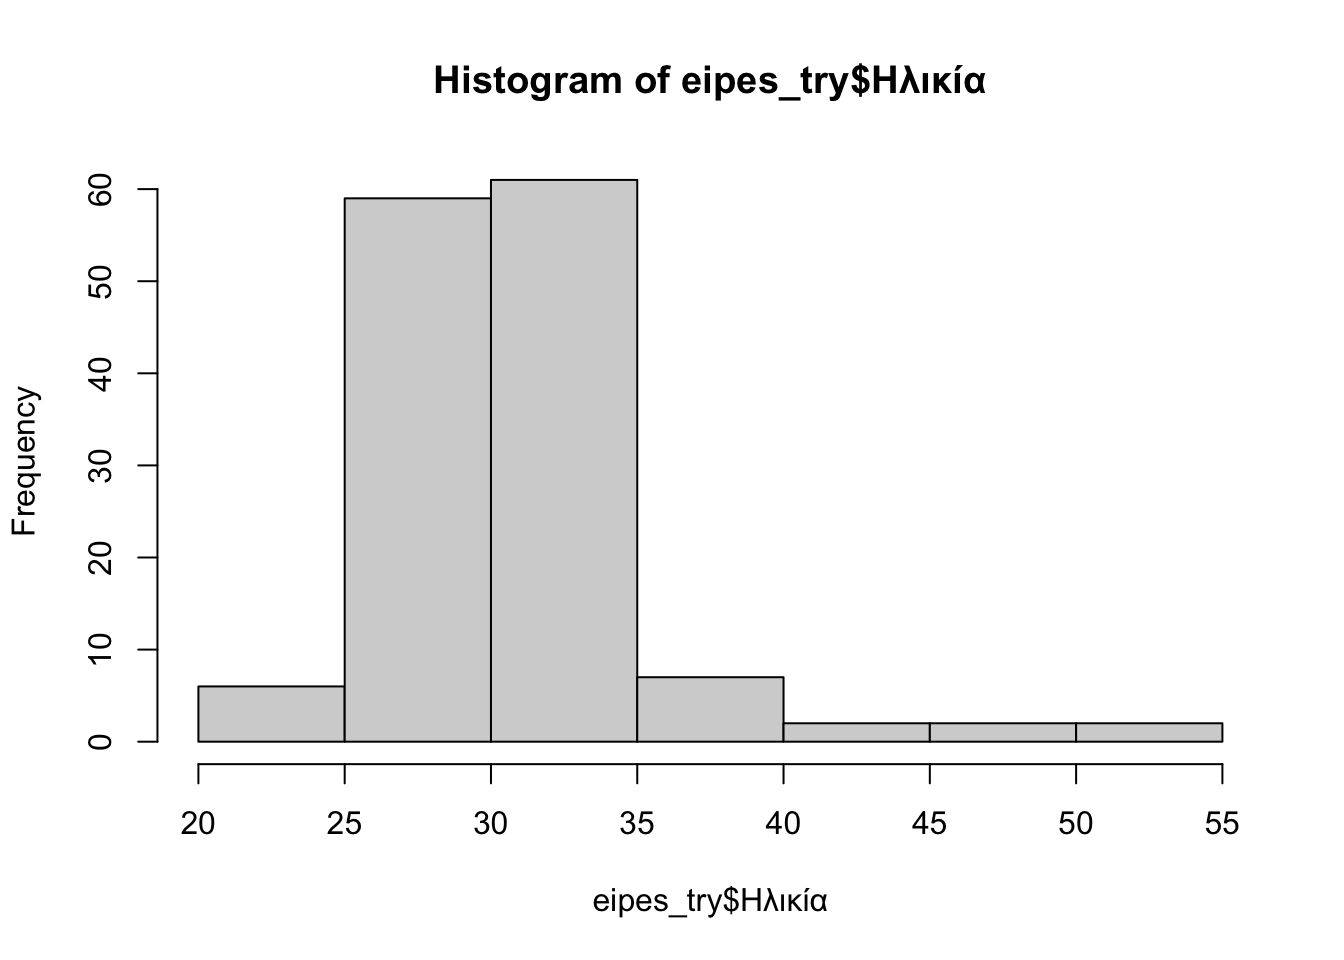
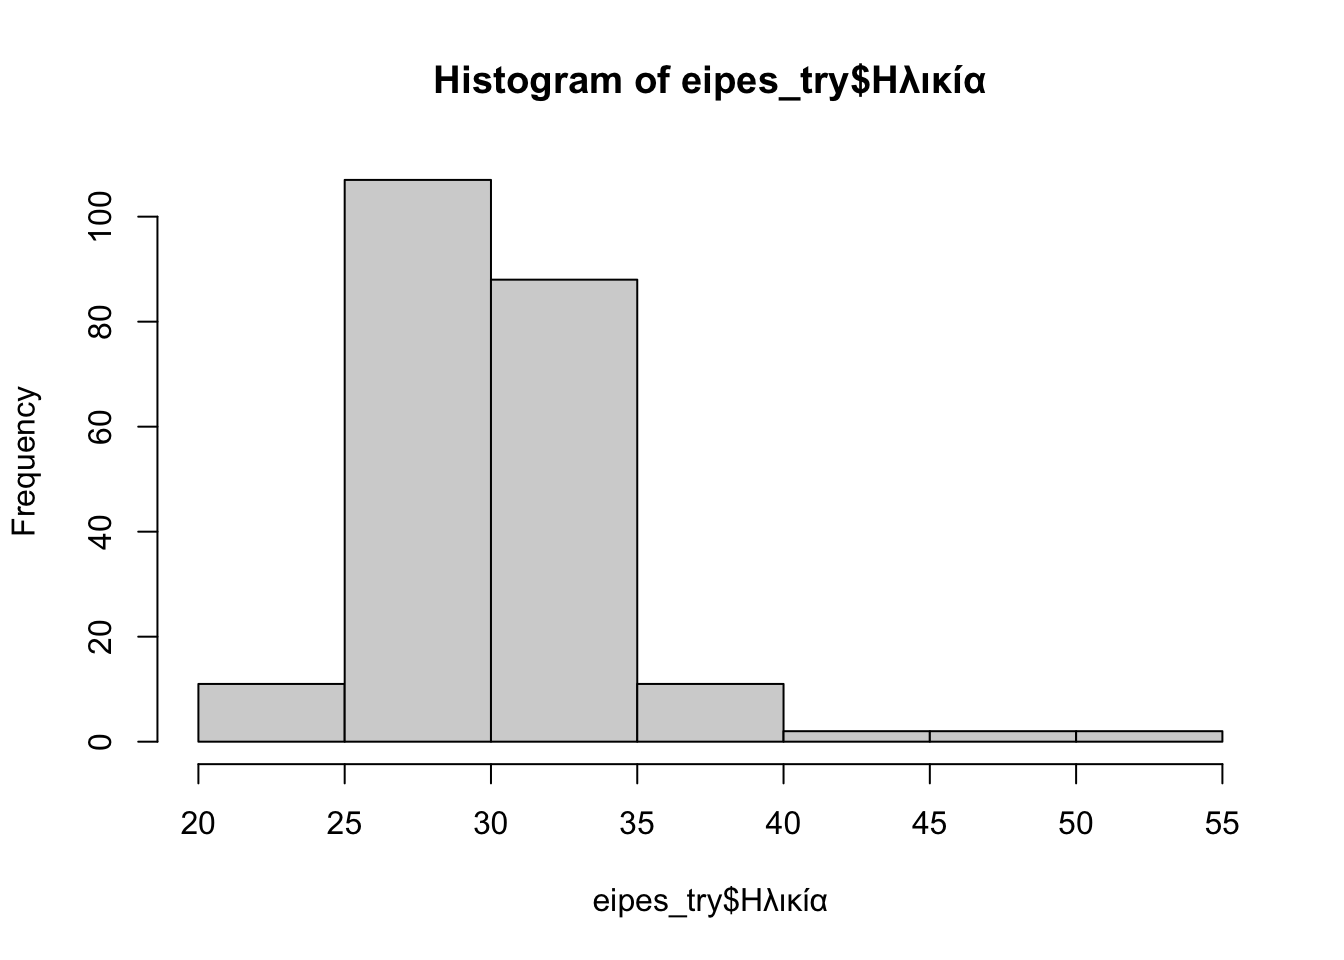
some changes

diff --git a/EIPES_test_session.html b/EIPES_test_session.html
@@ -102,7 +102,7 @@ pre > code.sourceCode > span > a:first-child::before { text-decoration: underlin
 <div class="cell">
 <div class="sourceCode cell-code" id="cb1"><pre class="sourceCode r code-with-copy"><code class="sourceCode r"><span id="cb1-1"><a href="#cb1-1" aria-hidden="true" tabindex="-1"></a><span class="fu">library</span>(tidyverse)</span>
 <span id="cb1-2"><a href="#cb1-2" aria-hidden="true" tabindex="-1"></a><span class="fu">library</span>(readxl)</span>
-<span id="cb1-3"><a href="#cb1-3" aria-hidden="true" tabindex="-1"></a>eipes_try <span class="ot">&lt;-</span> <span class="fu">read_excel</span>(<span class="st">"~/Downloads/ΕΡΕΥΝΑ ΓΙΑ ΤΗΝ ΙΑΤΡΙΚΗ ΠΑΙΔΕΙΑ ΚΑΙ ΕΡΓΑΣΙΑ (ΕΙΠΕς) (Απαντήσεις).xlsx"</span>)</span>
+<span id="cb1-3"><a href="#cb1-3" aria-hidden="true" tabindex="-1"></a>eipes_try <span class="ot">&lt;-</span> <span class="fu">read_excel</span>(<span class="st">"~/Downloads/ΕΡΕΥΝΑ ΓΙΑ ΤΗΝ ΙΑΤΡΙΚΗ ΠΑΙΔΕΙΑ ΚΑΙ ΕΡΓΑΣΙΑ (ΕΙΠΕς) (Απαντήσεις) (6).xlsx"</span>)</span>
 <span id="cb1-4"><a href="#cb1-4" aria-hidden="true" tabindex="-1"></a></span>
 <span id="cb1-5"><a href="#cb1-5" aria-hidden="true" tabindex="-1"></a>eipes_try <span class="ot">&lt;-</span> eipes_try[<span class="sc">!</span><span class="fu">is.na</span>(eipes_try<span class="sc">$</span><span class="st">`</span><span class="at">Χρονική σήμανση</span><span class="st">`</span>),]</span></code><button title="Copy to Clipboard" class="code-copy-button"><i class="bi"></i></button></pre></div>
 </div>
@@ -110,7 +110,7 @@ pre > code.sourceCode > span > a:first-child::before { text-decoration: underlin
 <div class="sourceCode cell-code" id="cb2"><pre class="sourceCode r code-with-copy"><code class="sourceCode r"><span id="cb2-1"><a href="#cb2-1" aria-hidden="true" tabindex="-1"></a><span class="co"># data collected so far.</span></span>
 <span id="cb2-2"><a href="#cb2-2" aria-hidden="true" tabindex="-1"></a><span class="fu">dim</span>(eipes_try)</span></code><button title="Copy to Clipboard" class="code-copy-button"><i class="bi"></i></button></pre></div>
 <div class="cell-output cell-output-stdout">
-<pre><code>[1] 139  57</code></pre>
+<pre><code>[1] 223  57</code></pre>
 </div>
 </div>
 <p>Gender composition</p>
@@ -120,14 +120,14 @@ pre > code.sourceCode > span > a:first-child::before { text-decoration: underlin
 <div class="cell-output cell-output-stdout">
 <pre><code>
 Non binary   Αρσενικό     Θηλυκό 
-         1         43         95 </code></pre>
+         1         83        139 </code></pre>
 </div>
 <div class="sourceCode cell-code" id="cb6"><pre class="sourceCode r code-with-copy"><code class="sourceCode r"><span id="cb6-1"><a href="#cb6-1" aria-hidden="true" tabindex="-1"></a><span class="co"># Percentage</span></span>
 <span id="cb6-2"><a href="#cb6-2" aria-hidden="true" tabindex="-1"></a><span class="fu">prop.table</span>(<span class="fu">table</span>(eipes_try<span class="sc">$</span><span class="st">`</span><span class="at">Φύλο?</span><span class="st">`</span>))</span></code><button title="Copy to Clipboard" class="code-copy-button"><i class="bi"></i></button></pre></div>
 <div class="cell-output cell-output-stdout">
 <pre><code>
  Non binary    Αρσενικό      Θηλυκό 
-0.007194245 0.309352518 0.683453237 </code></pre>
+0.004484305 0.372197309 0.623318386 </code></pre>
 </div>
 </div>
 <p>Age composition</p>
@@ -135,7 +135,7 @@ Non binary   Αρσενικό     Θηλυκό
 <div class="sourceCode cell-code" id="cb8"><pre class="sourceCode r code-with-copy"><code class="sourceCode r"><span id="cb8-1"><a href="#cb8-1" aria-hidden="true" tabindex="-1"></a><span class="co"># Mean Age</span></span>
 <span id="cb8-2"><a href="#cb8-2" aria-hidden="true" tabindex="-1"></a><span class="fu">mean</span>(eipes_try<span class="sc">$</span>Ηλικία)</span></code><button title="Copy to Clipboard" class="code-copy-button"><i class="bi"></i></button></pre></div>
 <div class="cell-output cell-output-stdout">
-<pre><code>[1] 31.22302</code></pre>
+<pre><code>[1] 30.7713</code></pre>
 </div>
 <div class="sourceCode cell-code" id="cb10"><pre class="sourceCode r code-with-copy"><code class="sourceCode r"><span id="cb10-1"><a href="#cb10-1" aria-hidden="true" tabindex="-1"></a><span class="co"># Age Histogram</span></span>
 <span id="cb10-2"><a href="#cb10-2" aria-hidden="true" tabindex="-1"></a><span class="fu">hist</span>(eipes_try<span class="sc">$</span>Ηλικία)</span></code><button title="Copy to Clipboard" class="code-copy-button"><i class="bi"></i></button></pre></div>
@@ -154,13 +154,13 @@ Non binary   Αρσενικό     Θηλυκό
 <div class="cell-output cell-output-stdout">
 <pre><code>
            Ειδικευόμενος/η Προπτυχιακός Φοιτητής/τρια 
-                       131                          8 </code></pre>
+                       211                         12 </code></pre>
 </div>
 <div class="sourceCode cell-code" id="cb13"><pre class="sourceCode r code-with-copy"><code class="sourceCode r"><span id="cb13-1"><a href="#cb13-1" aria-hidden="true" tabindex="-1"></a><span class="fu">prop.table</span>(<span class="fu">table</span>(eipes_try<span class="sc">$</span><span class="st">`</span><span class="at">Σε τι κατηγορία ανήκετε ;</span><span class="st">`</span>))</span></code><button title="Copy to Clipboard" class="code-copy-button"><i class="bi"></i></button></pre></div>
 <div class="cell-output cell-output-stdout">
 <pre><code>
            Ειδικευόμενος/η Προπτυχιακός Φοιτητής/τρια 
-                0.94244604                 0.05755396 </code></pre>
+                0.94618834                 0.05381166 </code></pre>
 </div>
 </div>
 <p>Type of Specialty</p>
@@ -170,57 +170,59 @@ Non binary   Αρσενικό     Θηλυκό
 <div class="cell-output cell-output-stdout">
 <pre><code>
                               ΑΙΜΑΤΟΛΟΓΙΑ 
-                                        1 
+                                        2 
                               ΑΚΤΙΝΟΛΟΓΙΑ 
-                                        9 
+                                       11 
                             ΑΛΛΕΡΓΙΟΛΟΓΙΑ 
                                         1 
                           ΑΝΑΙΣΘΗΣΙΟΛΟΓΙΑ 
-                                        2 
+                                        5 
                          ΓΑΣΤΡΕΝΤΕΡΟΛΟΓΙΑ 
-                                        2 
+                                        8 
                            ΓΕΝΙΚΗ ΙΑΤΡΙΚΗ 
-                                        3 
-              ΔΕΡΜΑΤΟΛΟΓΙΑ-ΑΦΡΟΔΙΣΙΟΛΟΓΙΑ 
-                                        9 
-                      ΕΣΩΤΕΡΙΚΗ ΠΑΘΟΛΟΓΙΑ 
                                         4 
+              ΔΕΡΜΑΤΟΛΟΓΙΑ-ΑΦΡΟΔΙΣΙΟΛΟΓΙΑ 
+                                       11 
+                      ΕΣΩΤΕΡΙΚΗ ΠΑΘΟΛΟΓΙΑ 
+                                        6 
 ΙΑΤΡΙΚΗ ΒΙΟΠΑΘΟΛΟΓΙΑ/ΕΡΓΑΣΤΗΡΙΑΚΗ ΙΑΤΡΙΚΗ 
                                         5 
        ΙΑΤΡΙΚΗ ΕΡΓΑΣΙΑΣ ΚΑΙ ΠΕΡΙΒΑΛΛΟΝΤΟΣ 
                                         1 
                               ΚΑΡΔΙΟΛΟΓΙΑ 
-                                       11 
+                                       14 
                ΜΑΙΕΥΤΙΚΗ ΚΑΙ ΓΥΝΑΙΚΟΛΟΓΙΑ 
-                                        1 
+                                        2 
                                ΝΕΥΡΟΛΟΓΙΑ 
-                                       12 
+                                       18 
                          ΝΕΥΡΟΧΕΙΡΟΥΡΓΙΚΗ 
-                                        5 
-                               ΝΕΦΡΟΛΟΓΙΑ 
                                         6 
+                               ΝΕΦΡΟΛΟΓΙΑ 
+                                       11 
             ΟΡΘΟΠΑΙΔΙΚΗ ΚΑΙ ΤΡΑΥΜΑΤΟΛΟΓΙΑ 
-                                        1 
+                                        4 
                                 ΟΥΡΟΛΟΓΙΑ 
                                         1 
                              ΟΦΘΑΛΜΟΛΟΓΙΑ 
-                                        3 
+                                        5 
                      ΠΑΘΟΛΟΓΙΚΗ ΑΝΑΤΟΜΙΚΗ 
                                         1 
                               ΠΑΙΔΙΑΤΡΙΚΗ 
-                                       12 
+                                       17 
              ΠΝΕΥΜΟΝΟΛΟΓΙΑ - ΦΥΜΑΤΙΟΛΟΓΙΑ 
-                                        1 
+                                        3 
                               ΡΕΥΜΑΤΟΛΟΠΑ 
-                                        1 
+                                        3 
+                              ΧΕΙΡΟΥΡΓΙΚΗ 
+                                        4 
                        ΧΕΙΡΟΥΡΓΙΚΗ ΠΑΙΔΩΝ 
-                                        1 
+                                        2 
                                ΨΥΧΙΑΤΡΙΚΗ 
-                                       31 
+                                       52 
             ΨΥΧΙΑΤΡΙΚΗ ΠΑΙΔΙΟΥ ΚΑΙ ΕΦΗΒΟΥ 
-                                        6 
+                                       11 
                       ΩΤΟΡΙΝΟΛΑΡΥΓΓΟΛΟΓΙΑ 
-                                        1 </code></pre>
+                                        3 </code></pre>
 </div>
 </div>
 <p>Location of speciality</p>
@@ -230,7 +232,7 @@ Non binary   Αρσενικό     Θηλυκό
 <div class="cell-output cell-output-stdout">
 <pre><code>
       Αθήνα       Αλλού Θεσσαλονίκη 
-         81          18          32 </code></pre>
+        123          42          46 </code></pre>
 </div>
 </div>
 <p>Data collected by date</p>
@@ -275,7 +277,7 @@ Non binary   Αρσενικό     Θηλυκό
 <span id="cb19-38"><a href="#cb19-38" aria-hidden="true" tabindex="-1"></a>  <span class="fu">geom_col</span>()<span class="sc">+</span></span>
 <span id="cb19-39"><a href="#cb19-39" aria-hidden="true" tabindex="-1"></a>  <span class="fu">ggtitle</span>(<span class="st">"EIPES: numbers completed per day and time"</span>)</span></code><button title="Copy to Clipboard" class="code-copy-button"><i class="bi"></i></button></pre></div>
 <div class="cell-output cell-output-stderr">
-<pre><code>Warning: Removed 2 rows containing missing values or values outside the scale range
+<pre><code>Warning: Removed 1 row containing missing values or values outside the scale range
 (`geom_col()`).</code></pre>
 </div>
 <div class="cell-output-display">
